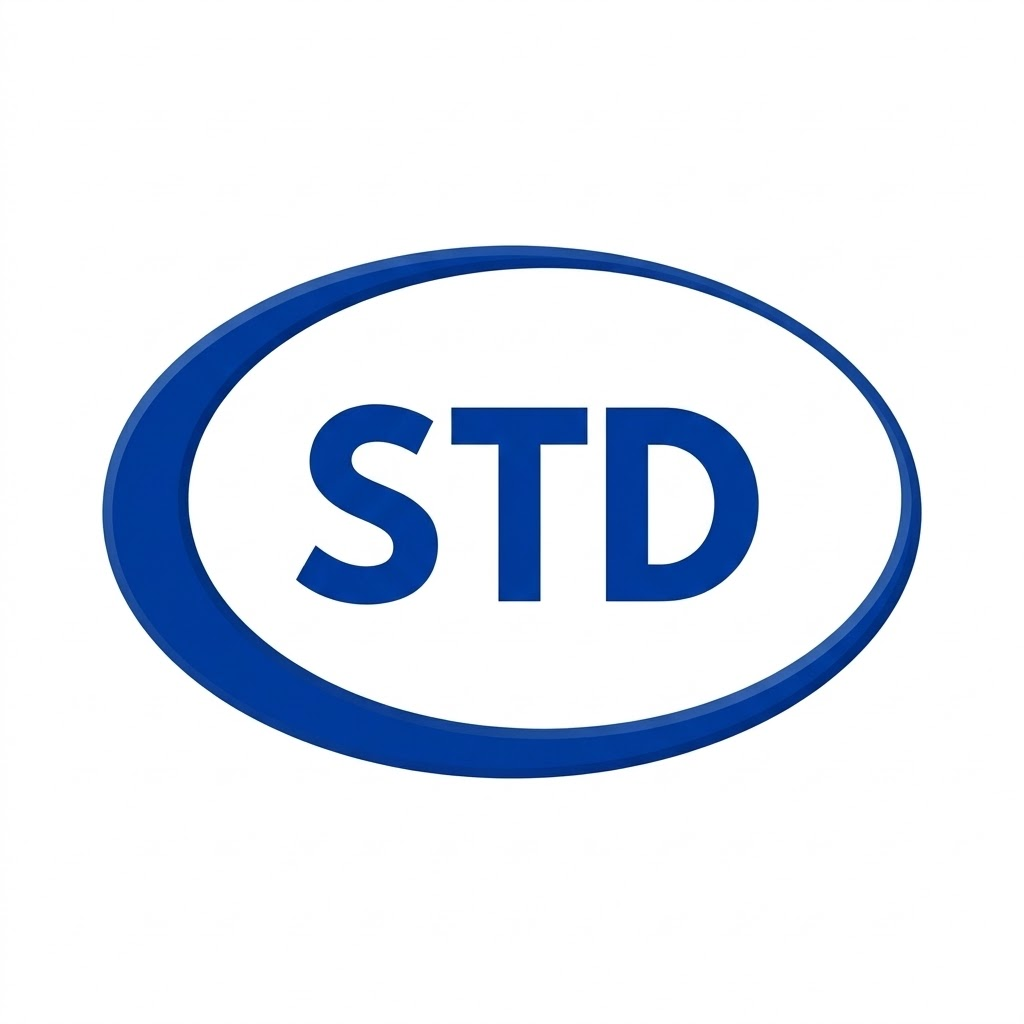
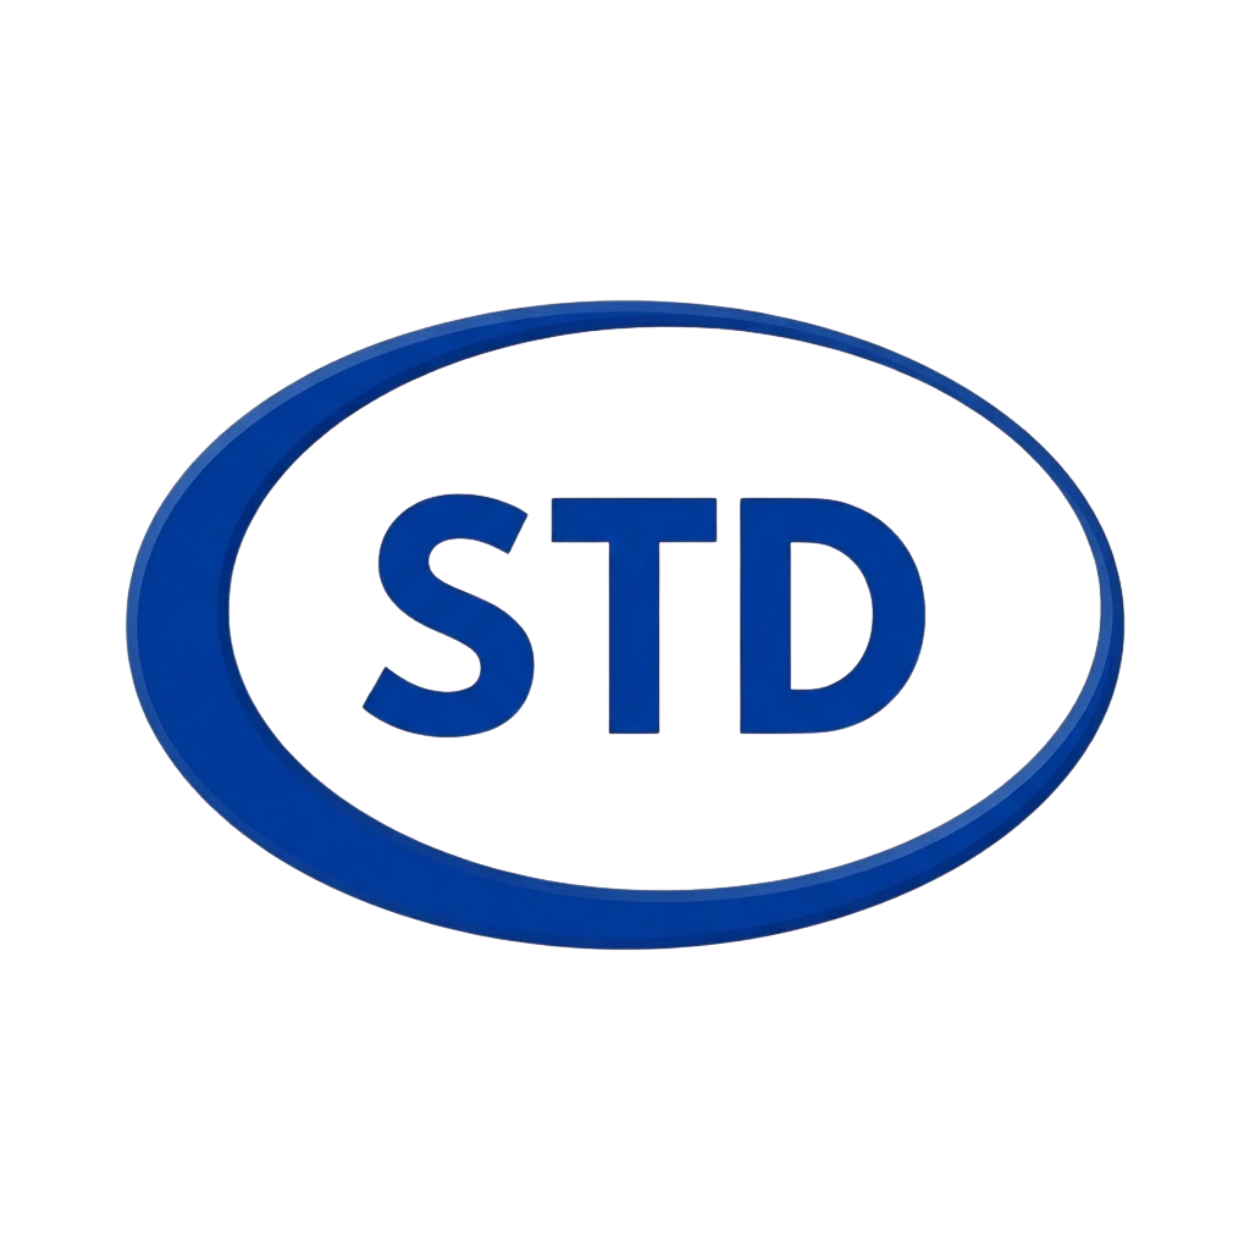
Add files via upload

diff --git a/projects.html b/projects.html
@@ -246,7 +246,7 @@ footer h3 {
     <div class="max-w-7xl mx-auto px-6 flex justify-between items-center">
         
       <div class="flex items-center space-x-1"> 
-	    <img src="STD 4.jpg" alt="Logo" class="h-12 w-auto object-contain">
+	    <img src="STD 4.png" alt="Logo" class="h-12 w-auto object-contain">
         <div class="leading-none -ml-1">
         <span class="text-[19px] font-semibold block tracking-[0.1em] text-white">
             ENGINEERING <span class="text-[14px] font-light opacity-80">AND</span>
@@ -801,7 +801,7 @@ function toggleSub(id) {
 
             <div class="group p-6 border border-gray-100 rounded-xl hover:shadow-lg transition-all flex flex-col items-center justify-center text-center bg-white">
                 <div class="h-16 flex items-center mb-4">
-                    <img src="cpn.jpg" alt="CPN Logo" class="h-full w-auto object-contain">
+                    <img src="cpn.png" alt="CPN Logo" class="h-full w-auto object-contain">
                 </div>
                 <p class="text-xs font-bold text-gray-500 uppercase tracking-wider">
                     <span class="lang-th">บริษัท เซ็นทรัลพัฒนา จำกัด (มหาชน)</span>

diff --git a/oil.html b/oil.html
@@ -246,7 +246,7 @@ footer h3 {
     <div class="max-w-7xl mx-auto px-6 flex justify-between items-center">
         
       <div class="flex items-center space-x-1"> 
-	    <img src="STD 4.jpg" alt="Logo" class="h-12 w-auto object-contain">
+	    <img src="STD 4.png" alt="Logo" class="h-12 w-auto object-contain">
         <div class="leading-none -ml-1">
         <span class="text-[19px] font-semibold block tracking-[0.1em] text-white">
             ENGINEERING <span class="text-[14px] font-light opacity-80">AND</span>

diff --git a/quotation.html b/quotation.html
@@ -246,7 +246,7 @@ footer h3 {
     <div class="max-w-7xl mx-auto px-6 flex justify-between items-center">
         
       <div class="flex items-center space-x-1"> 
-	    <img src="STD 4.jpg" alt="Logo" class="h-12 w-auto object-contain">
+	    <img src="STD 4.png" alt="Logo" class="h-12 w-auto object-contain">
         <div class="leading-none -ml-1">
         <span class="text-[19px] font-semibold block tracking-[0.1em] text-white">
             ENGINEERING <span class="text-[14px] font-light opacity-80">AND</span>

diff --git a/services.html b/services.html
@@ -354,7 +354,7 @@ footer h3 {
     <div class="max-w-7xl mx-auto px-6 flex justify-between items-center">
         
       <div class="flex items-center space-x-1"> 
-	    <img src="STD 4.jpg" alt="Logo" class="h-12 w-auto object-contain">
+	    <img src="STD 4.png" alt="Logo" class="h-12 w-auto object-contain">
         <div class="leading-none -ml-1">
         <span class="text-[19px] font-semibold block tracking-[0.1em] text-white">
             ENGINEERING <span class="text-[14px] font-light opacity-80">AND</span>

diff --git a/write.html b/write.html
@@ -246,7 +246,7 @@ footer h3 {
     <div class="max-w-7xl mx-auto px-6 flex justify-between items-center">
         
       <div class="flex items-center space-x-1"> 
-	    <img src="STD 4.jpg" alt="Logo" class="h-12 w-auto object-contain">
+	    <img src="STD 4.png" alt="Logo" class="h-12 w-auto object-contain">
         <div class="leading-none -ml-1">
         <span class="text-[19px] font-semibold block tracking-[0.1em] text-white">
             ENGINEERING <span class="text-[14px] font-light opacity-80">AND</span>
